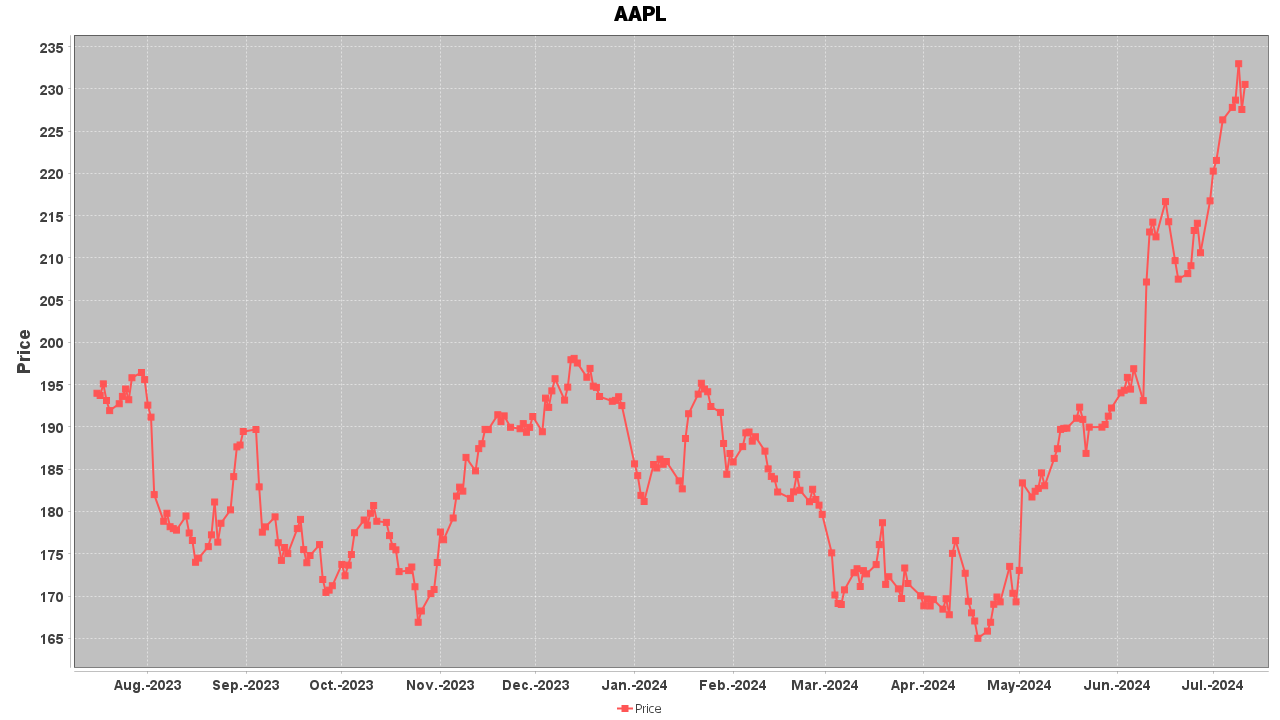
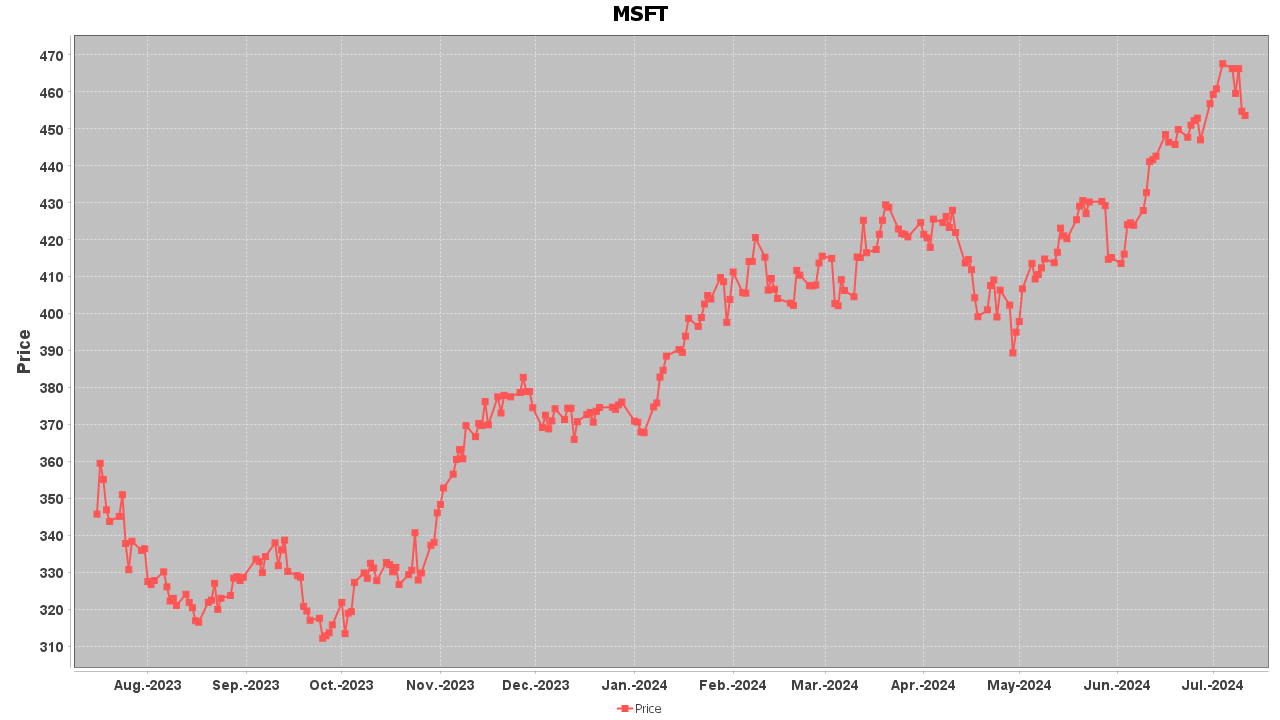
got rid of seperate chartController for chart data

diff --git a/src/main/java/cmpt276/project/marketmimic/controllers/apiController.java b/src/main/java/cmpt276/project/marketmimic/controllers/apiController.java
@@ -1,7 +1,7 @@
 package cmpt276.project.marketmimic.controllers;
 
+import java.io.IOException;
 import java.util.*;
-import java.util.stream.Collectors;
 
 import org.springframework.beans.factory.annotation.Autowired;
 import org.springframework.boot.web.client.RestTemplateBuilder;
@@ -17,6 +17,7 @@ import org.springframework.web.client.RestTemplate;
 import org.springframework.ui.Model;
 import cmpt276.project.marketmimic.config.ApiConfig;
 import cmpt276.project.marketmimic.model.*;
+import cmpt276.project.marketmimic.service.ChartService;
 import cmpt276.project.marketmimic.services.CurrencyService;
 import jakarta.servlet.http.HttpSession;;
 
@@ -26,37 +27,15 @@ public class apiController {
 
     private final RestTemplate restTemplate;
     private final ApiConfig apiConfig;
+    private final ChartService chartService;
+
     @Autowired
     private CurrencyService currencyService;
 
-    public apiController(RestTemplateBuilder restTemplateBuilder, ApiConfig apiConfig) {
+    public apiController(RestTemplateBuilder restTemplateBuilder, ApiConfig apiConfig, ChartService chartService) {
         this.restTemplate = restTemplateBuilder.build();
         this.apiConfig = apiConfig;
-    }
-
-    //
-    // NOTE: Using this method exceeds the 30 API calls per second limit for Finnhub, so it should be ignored for now
-    //
-    @GetMapping("/prices")
-    public Map<String, Object> getStockPrices(@RequestParam String exchange) {
-        String symbolsUrl = "https://finnhub.io/api/v1/stock/symbol?exchange=" + exchange + "&token=" + apiConfig.getApiKey();
-        ResponseEntity<List<Map<String, Object>>> symbolsResponse = restTemplate.exchange(symbolsUrl, 
-            HttpMethod.GET,
-            null, 
-            new ParameterizedTypeReference<>() {});
-
-        List<String> symbols = symbolsResponse.getBody().stream()
-                .map(symbol -> symbol.get("symbol").toString())
-                .collect(Collectors.toList());
-
-        Map<String, Object> stockPrices = new HashMap<>();
-        for (String symbol : symbols) {
-            String quoteUrl = "https://finnhub.io/api/v1/quote?symbol=" + symbol + "&token=" + apiConfig.getApiKey();
-            @SuppressWarnings("unchecked")
-            Map<String, Object> quote = restTemplate.getForObject(quoteUrl, Map.class);
-            stockPrices.put(symbol, quote);
-        }
-        return stockPrices;
+        this.chartService = chartService;
     }
 
     @GetMapping("/")
@@ -80,6 +59,15 @@ public class apiController {
 
     @GetMapping("/price")
     public String getStockPrice(@RequestParam String symbol, Model model, HttpSession session) {
+        String stockDataUrl = "https://api.polygon.io/v2/aggs/ticker/" + symbol + "/range/1/day/" + getOneYearAgo() + "/" + getCurrentDate() + "?apiKey=" + apiConfig.getPolygonApiKey();
+        StockDataResponse stockDataResponse = restTemplate.getForObject(stockDataUrl, StockDataResponse.class);
+
+        try {
+            chartService.createStockChart(stockDataResponse, symbol);
+        } catch (IOException e) {
+            e.printStackTrace();
+        }
+
         String quoteUrl = "https://finnhub.io/api/v1/quote?symbol=" + symbol + "&token=" + apiConfig.getApiKey();
         StockData stockData = restTemplate.getForObject(quoteUrl, StockData.class);
         User user = (User) session.getAttribute("session_user");
@@ -91,5 +79,13 @@ public class apiController {
         model.addAttribute("stockData", stockData);
         model.addAttribute("user", user);
         return "stocksymbol";
+    }
+
+    private String getCurrentDate() {
+        return java.time.LocalDate.now().toString();
+    }
+
+    private String getOneYearAgo() {
+        return java.time.LocalDate.now().minusYears(1).toString();
     }
 }

diff --git a/src/main/java/cmpt276/project/marketmimic/controllers/chartController.java b/src/main/java/cmpt276/project/marketmimic/controllers/chartController.java
@@ -1,34 +1,34 @@
-package cmpt276.project.marketmimic.controllers;
+// package cmpt276.project.marketmimic.controllers;
 
-import org.springframework.stereotype.Controller;
-import org.springframework.web.bind.annotation.GetMapping;
-import org.springframework.web.bind.annotation.RequestParam;
+// import org.springframework.stereotype.Controller;
+// import org.springframework.web.bind.annotation.GetMapping;
+// import org.springframework.web.bind.annotation.RequestParam;
 
-import cmpt276.project.marketmimic.service.*;
-import cmpt276.project.marketmimic.model.StockDataResponse;
+// import cmpt276.project.marketmimic.service.*;
+// import cmpt276.project.marketmimic.model.StockDataResponse;
 
-import java.io.IOException;
+// import java.io.IOException;
 
-@Controller
-public class chartController {
+// @Controller
+// public class chartController {
 
-    private final PolygonService polygonService;
-    private final ChartService chartService;
+//     private final PolygonService polygonService;
+//     private final ChartService chartService;
 
-    public chartController(PolygonService polygonService, ChartService chartService) {
-        this.polygonService = polygonService;
-        this.chartService = chartService;
-    }
+//     public chartController(PolygonService polygonService, ChartService chartService) {
+//         this.polygonService = polygonService;
+//         this.chartService = chartService;
+//     }
 
-    @GetMapping("/stock/chart")
-    public String getStockChart(@RequestParam String ticker) {
-        StockDataResponse stockDataResponse = polygonService.getStockData(ticker);
-        try {
-            chartService.createStockChart(stockDataResponse, ticker);
-        } catch (IOException e) {
-            e.printStackTrace();
-            return "Error creating chart";
-        }
-        return "Chart created successfully";
-    }
-}
+//     @GetMapping("/stock/chart")
+//     public String getStockChart(@RequestParam String ticker) {
+//         StockDataResponse stockDataResponse = polygonService.getStockData(ticker);
+//         try {
+//             chartService.createStockChart(stockDataResponse, ticker);
+//         } catch (IOException e) {
+//             e.printStackTrace();
+//             return "Error creating chart";
+//         }
+//         return "Chart created successfully";
+//     }
+// }

diff --git a/src/main/java/cmpt276/project/marketmimic/config/ApiConfig.java b/src/main/java/cmpt276/project/marketmimic/config/ApiConfig.java
@@ -7,8 +7,13 @@ import org.springframework.context.annotation.Configuration;
 @ConfigurationProperties(prefix = "finnhub")
 public class ApiConfig {
     private String apiKey = "cq1jlm1r01qjh3d5pt90cq1jlm1r01qjh3d5pt9g";
+    private String polygonApiKey = "oKU_VAKwXYjlkUoMeB2CodWt1hQmCYI3";
 
     public String getApiKey() {
         return apiKey;
+    }
+
+    public String getPolygonApiKey() {
+        return polygonApiKey;
     }
 }
